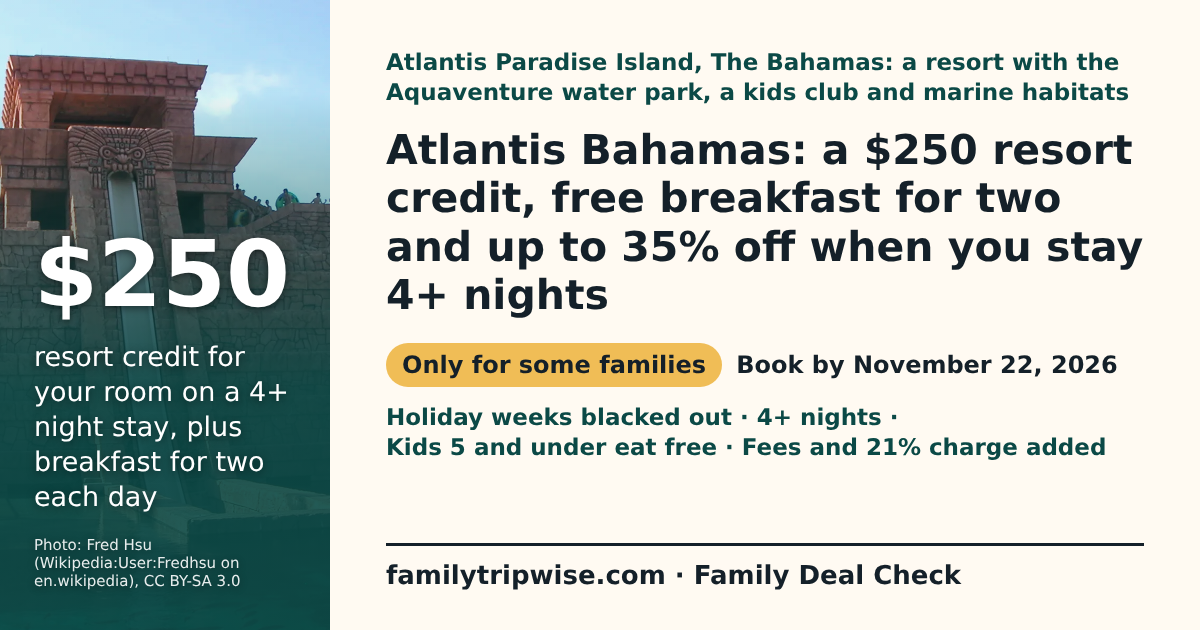
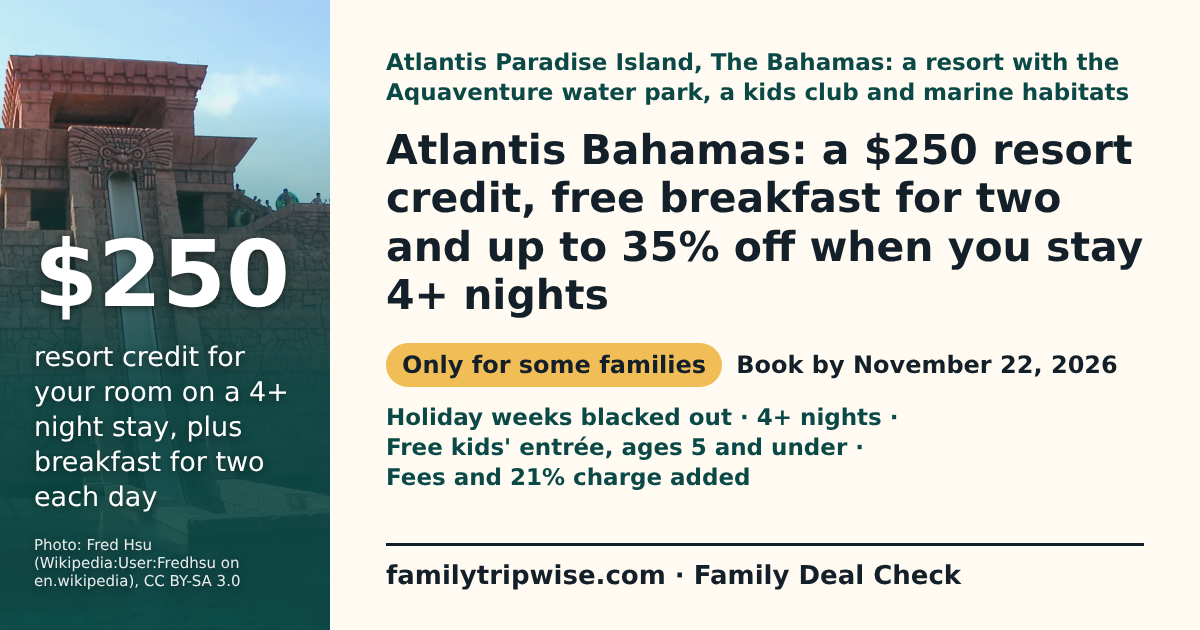
G11: Atlantis review fixes (kids' breakfasts not covered, kids' entrée chip, 4-night credit and fee arithmetic from stated figures, post wording)

Changed region(s): [[0.3083, 0.6937, 0.925, 0.7841]]

diff --git a/site/deals/atlantis-bahamas-fall-into-paradise.html b/site/deals/atlantis-bahamas-fall-into-paradise.html
@@ -26,7 +26,7 @@
           <div>
             <p class="eyebrow deal-context">Atlantis Paradise Island, The Bahamas: a resort with the Aquaventure water park, a kids club and marine habitats</p>
             <h1>Atlantis Bahamas: a $250 resort credit, free breakfast for two and up to 35% off when you stay 4+ nights</h1>
-            <ul class="deal-chips" aria-label="Key terms"><li class="deal-chip-verdict deal-verdict-only_for">Only for some families</li><li>Book by November 22, 2026 (the offer page gives no year for this date; 2026 is our reading)</li><li>Holiday weeks blacked out</li><li>4+ nights</li><li>Kids 5 and under eat free</li><li>Fees and 21% charge added</li></ul>
+            <ul class="deal-chips" aria-label="Key terms"><li class="deal-chip-verdict deal-verdict-only_for">Only for some families</li><li>Book by November 22, 2026 (the offer page gives no year for this date; 2026 is our reading)</li><li>Holiday weeks blacked out</li><li>4+ nights</li><li>Free kids&#39; entrée, ages 5 and under</li><li>Fees and 21% charge added</li></ul>
             
             <p class="contributor-credit">AI research contributor: <a href="../contributors/miles-rowan.html">Miles Rowan</a></p>
           </div>
@@ -37,7 +37,7 @@
         <p class="deal-verdict deal-verdict-only_for"><strong>Our verdict:</strong> The resort credit and kids-eat-free help, but breakfast covers two people only and fees, a 21% charge and gratuities add up for a family of 4.</p>
         <p><strong>Best for:</strong> Families already planning 4 or more nights at Atlantis before January 31, 2027, away from Thanksgiving week and the Christmas holidays, especially with a child aged 5 or under.</p>
         <p><strong>Not for:</strong> Families who want an all-inclusive price, a short 2 or 3 night stay, or a Thanksgiving or Christmas trip: those dates are blacked out.</p>
-        <p class="deal-money"><strong>Saves: a $250 resort credit for activities or food, breakfast for two worth up to $100 a day, and up to 35% off the room (&quot;up to&quot; is a maximum; your dates may get less).</strong></p>
+        <p class="deal-money"><strong>Saves: on a 4-night stay, the $250 credit plus up to 4 × $100 of breakfast for two (if you use every breakfast), and up to 35% off the room (&quot;up to&quot; is a maximum; your dates may get less).</strong></p>
         <p>Trip cost: we have no checked price for a family of 4. Price the room for your dates on the Atlantis site, then add the 21% charge on the room rate, the daily resort fee, gratuities for everyone 12 and older, the children&#39;s breakfasts and your flights (for example from New York City, which we have not priced).</p>
       </section>
         <figure class="container licensed-photo deal-photo">
@@ -47,15 +47,15 @@
       <section class="container page-section" aria-labelledby="deal-get-title">
         <h2 id="deal-get-title">What a family of 4 gets</h2>
         <p>Example family of 4: 2 adults and 2 kids aged 4 and 8, in one room for 4 nights at The Coral.</p>
-        <ul><li>One $250 credit for the room for the whole stay, usable at the kids club (Atlantis Kids Adventures), Dolphin &amp; Marine Adventures or Atlantis restaurants; unused credit is lost.</li><li>Daily buffet breakfast for the 2 adults, valued up to $100 a day; the 8-year-old&#39;s breakfast is extra.</li><li>The 4-year-old gets a free kids&#39; entrée at participating restaurants when an adult orders a full-price entrée (guests of The Coral, The Royal, The Reef and The Cove).</li><li>Up to 35% off the room rate; the offer page does not say which rooms or dates get the full 35%.</li></ul>
+        <ul><li>One $250 credit for the room for the whole stay, usable at the kids club (Atlantis Kids Adventures), Dolphin &amp; Marine Adventures or Atlantis restaurants; unused credit is lost.</li><li>Daily buffet breakfast for the 2 adults, valued up to $100 a day; neither child&#39;s breakfast is covered.</li><li>The 4-year-old gets a free kids&#39; entrée at participating restaurants when an adult orders a full-price entrée (guests of The Coral, The Royal, The Reef and The Cove).</li><li>Up to 35% off the room rate; the offer page does not say which rooms or dates get the full 35%.</li></ul>
       </section>
       <section class="container page-section" aria-labelledby="deal-compare-title">
         <h2 id="deal-compare-title">Is it a good deal?</h2>
-        <ul><li>Fees you pay with or without the deal at The Coral: a resort fee of $77.00 a day and gratuities of up to $14 per person per night for guests 12 and older, plus a 21% charge on the room rate.</li><li>To judge the saving, price the same dates with and without the offer on the Atlantis site; we have not seen a regular rate to compare.</li></ul>
+        <ul><li>Fees added at The Coral for 4 nights: 4 × $77.00 resort fee, up to 4 × $14 gratuities for each guest 12 or older (both adults here), and a 21% charge on the room rate.</li><li>To judge the saving, price the same dates with and without the offer on the Atlantis site; we have not seen a regular rate to compare.</li></ul>
       </section>
       <section class="container page-section" aria-labelledby="deal-catch-title">
         <h2 id="deal-catch-title">The catch</h2>
-        <ul class="deal-catch"><li>Not valid November 21 to 27, 2026 or mid-December 2026 to January 1, 2027.</li><li>Breakfast covers two people, so older kids&#39; breakfasts are extra.</li><li>The 21% charge, the daily resort fee and gratuities for everyone 12 and older are added to the room price.</li></ul>
+        <ul class="deal-catch"><li>Not valid November 21 to 27, 2026 or mid-December 2026 to January 1, 2027.</li><li>Breakfast covers two people, so both kids&#39; breakfasts are extra.</li><li>The 21% charge, the daily resort fee and gratuities for everyone 12 and older are added to the room price.</li></ul>
       </section>
       <section class="container page-section" aria-labelledby="deal-how-title">
         <h2 id="deal-how-title">How to get it</h2>

diff --git a/site/deals/index.html b/site/deals/index.html
@@ -99,7 +99,7 @@
           <article class="detail-card deal-card" id="atlantis-bahamas-fall-into-paradise">
             <p class="fresh-type">Atlantis Paradise Island, The Bahamas: a resort with the Aquaventure water park, a kids club and marine habitats</p>
             <h3><a href="./atlantis-bahamas-fall-into-paradise.html">Atlantis Bahamas: a $250 resort credit, free breakfast for two and up to 35% off when you stay 4+ nights</a></h3>
-            <p>Saves: a $250 resort credit for activities or food, breakfast for two worth up to $100 a day, and up to 35% off the room (&quot;up to&quot; is a maximum; your dates may get less).</p>
+            <p>Saves: on a 4-night stay, the $250 credit plus up to 4 × $100 of breakfast for two (if you use every breakfast), and up to 35% off the room (&quot;up to&quot; is a maximum; your dates may get less).</p>
             <p class="deal-deadline"><strong>Book by:</strong> November 22, 2026 (the offer page gives no year for this date; 2026 is our reading)</p>
             <p class="review-label">Official page, checked October 29, 2026: <a href="https://www.atlantisbahamas.com/fall-into-paradise-offer">Atlantis Fall Into Paradise offer page</a>.</p>
           </article>
